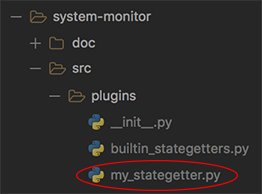
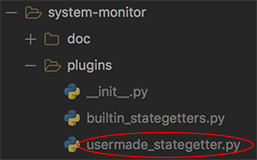
Update documentation for User plugins

diff --git a/plugins/usermade_stategetter.py b/plugins/usermade_stategetter.py
@@ -1,0 +1,8 @@
+from builtin_stategetters import BaseStateGetter
+
+
+# Simply shows the second state all the time, quite boring
+class BoringUserMadeStateGetter(BaseStateGetter):
+
+    def get_state(self):
+        return self.states[1]

diff --git a/README.md b/README.md
@@ -10,34 +10,58 @@ While the builtin plugins (plugins/builin_stategetters.py), generates a dummy st
 Please refer to the [Add your own plugin](#guide-add-your-own-plugin) section.
 
 
-
 ## Guide: Add your own plugin
-
-1. Output any of the states specified in the config.yaml
-2.
-
-
-### Create a plugin file
-
+1. Create a plugin file `usermade_stategetter.py`
 ![alt text](doc/new_plugin.png "Path to user made stategetter" )
 
+2. Create a class `BoringUserMadeStateGetter` that inherits `BaseStateGetter` and implements `get_state`. See [plugins/builtin_stategetters.py](plugins/builtin_stategetters.py) for examples.
 
-In *my_stategetter.py*
+**plugins/usermade_stategetter.py**
+```python
+from builtin_stategetters import BaseStateGetter
+# Simply shows the second state all the time, quite boring
+class BoringUserMadeStateGetter(BaseStateGetter):
+
+    def get_state(self):
+        return self.states[1]
+```
+3. Make *System Monitor* use the new plugin by updating the `config.yaml` to point to your plugin.
+
+**config.yaml**
+```yaml
+options:
+  stateGetter: plugins.usermade_stategetter.BoringUserMadeStateGetter
+...
 ```
 
+### Guide: Use custom options for your own plugin
+1. Add the new attribute to your `config.yaml` under options
+
+**config.yaml**
+```yaml
+options:
+  stateGetter:      plugins.usermade_stategetter.BoringUserMadeStateGetter
+  YOUR_ATTRIBUTE:   2
+...
 ```
+2. Use the attribute `self.option['YOUR_ATTRIBUTE']` to access it in your plugin
 
-### Use the Use the plugin
-### Specify the
+**plugins/usermade_stategetter.py**
+```python
+from builtin_stategetters import BaseStateGetter
+# Simply shows the second state all the time, quite boring
+class BoringUserMadeStateGetter(BaseStateGetter):
 
+    def get_state(self):
+        fixed_index = int(self.options['YOUR_ATTRIBUTE'])  # Note: need to convert from string to int
+        return self.states[fixed_index]
+```
 
 ## Todos
 #### Release 0.3
 * Group pages on same row
-* Document how to add plugins
 * Read custom options in plugins
 * Document how to add custom options to plugins
-* Move app files from src to root folder
 
 #### Release 0.x
 * PLUGIN: REST
@@ -46,6 +70,8 @@ In *my_stategetter.py*
 
 ## Done
 #### Release 0.3
+* Document how to add plugins
+* Move app files from src to root folder
 
 #### Release 0.2
 * ~~Record new gif~~

diff --git a/doc/LESSONS_LEARNT.md b/doc/LESSONS_LEARNT.md
@@ -13,19 +13,19 @@ ConfigParser, YAML, or JSON
 https://stackoverflow.com/questions/19078170/python-how-would-you-save-a-simple-settings-config-file
 
 #### Read all options for a section
-```
+```python
 dict(Config.items('Section'))
 ```
 
 
 # YAML
-```
+```python
 print(yaml.dump({'states':STATES}, default_flow_style=False))
 ```
 
 
 # Handling exceptions in Flask (nice!)
-```
+```python
 @app.errorhandler(requests.RequestException)
 def handle_invalid_usage(error):
     return error.message, 404
